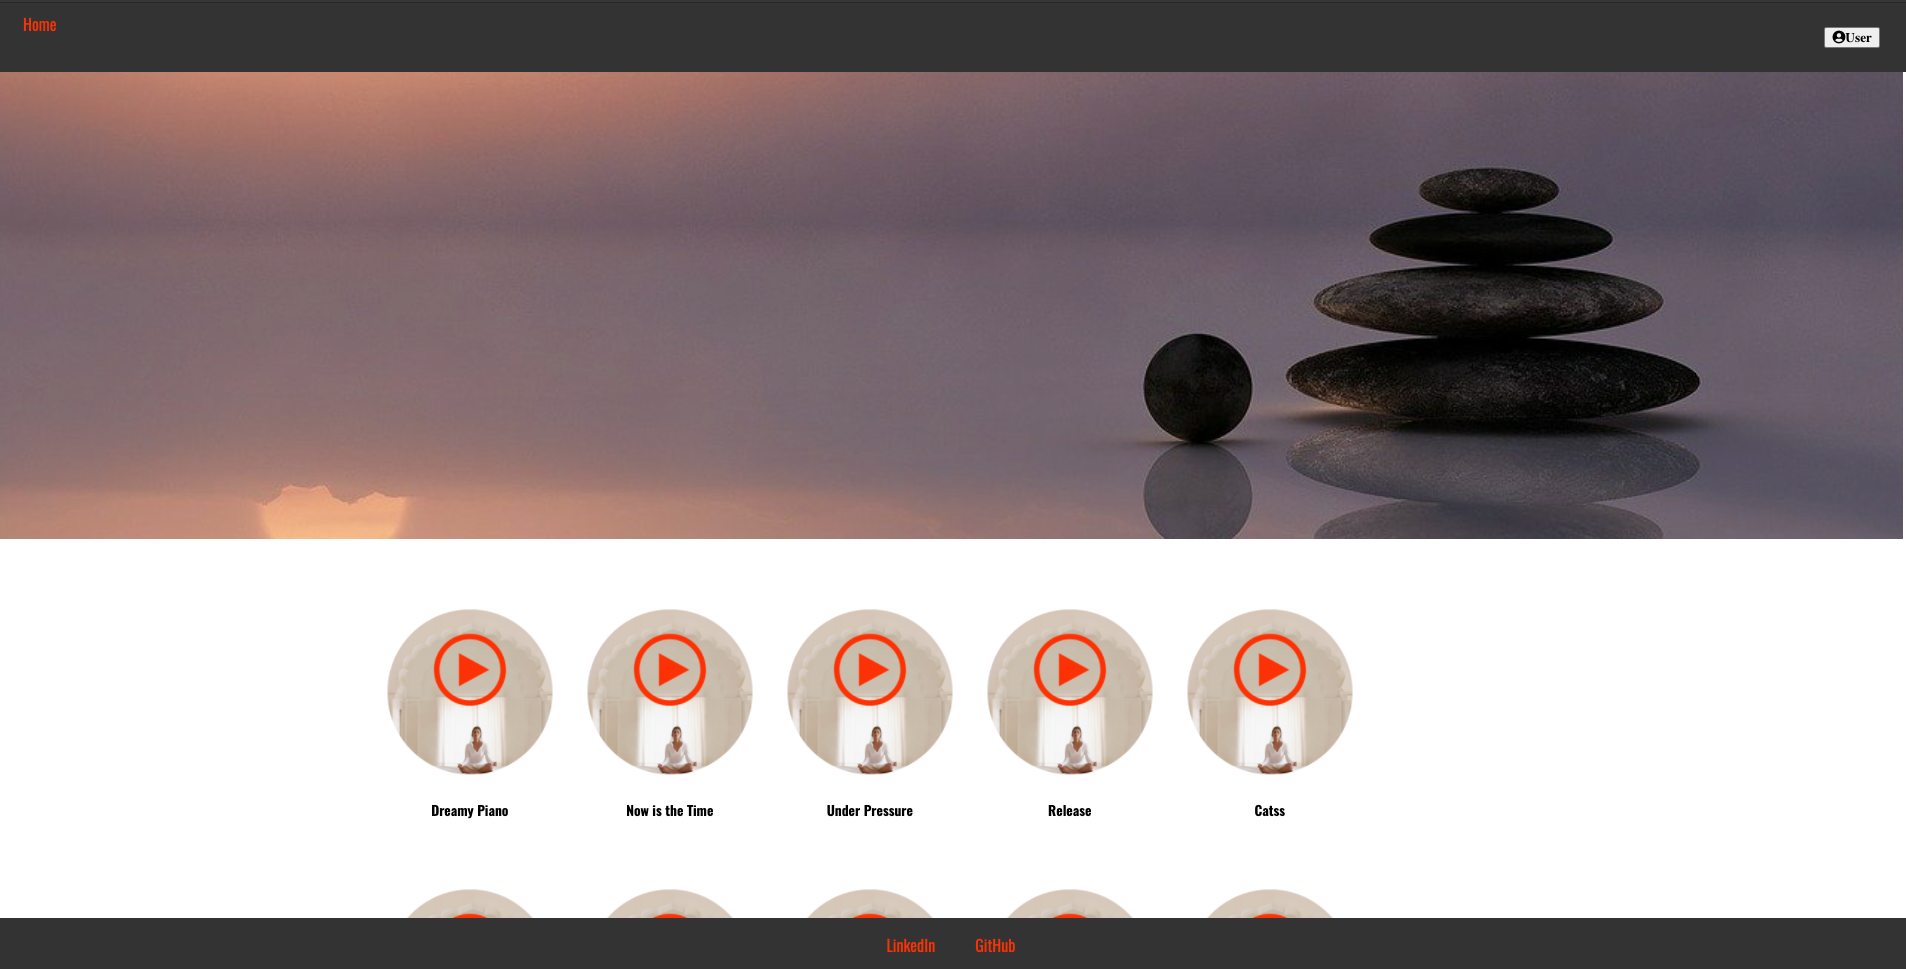
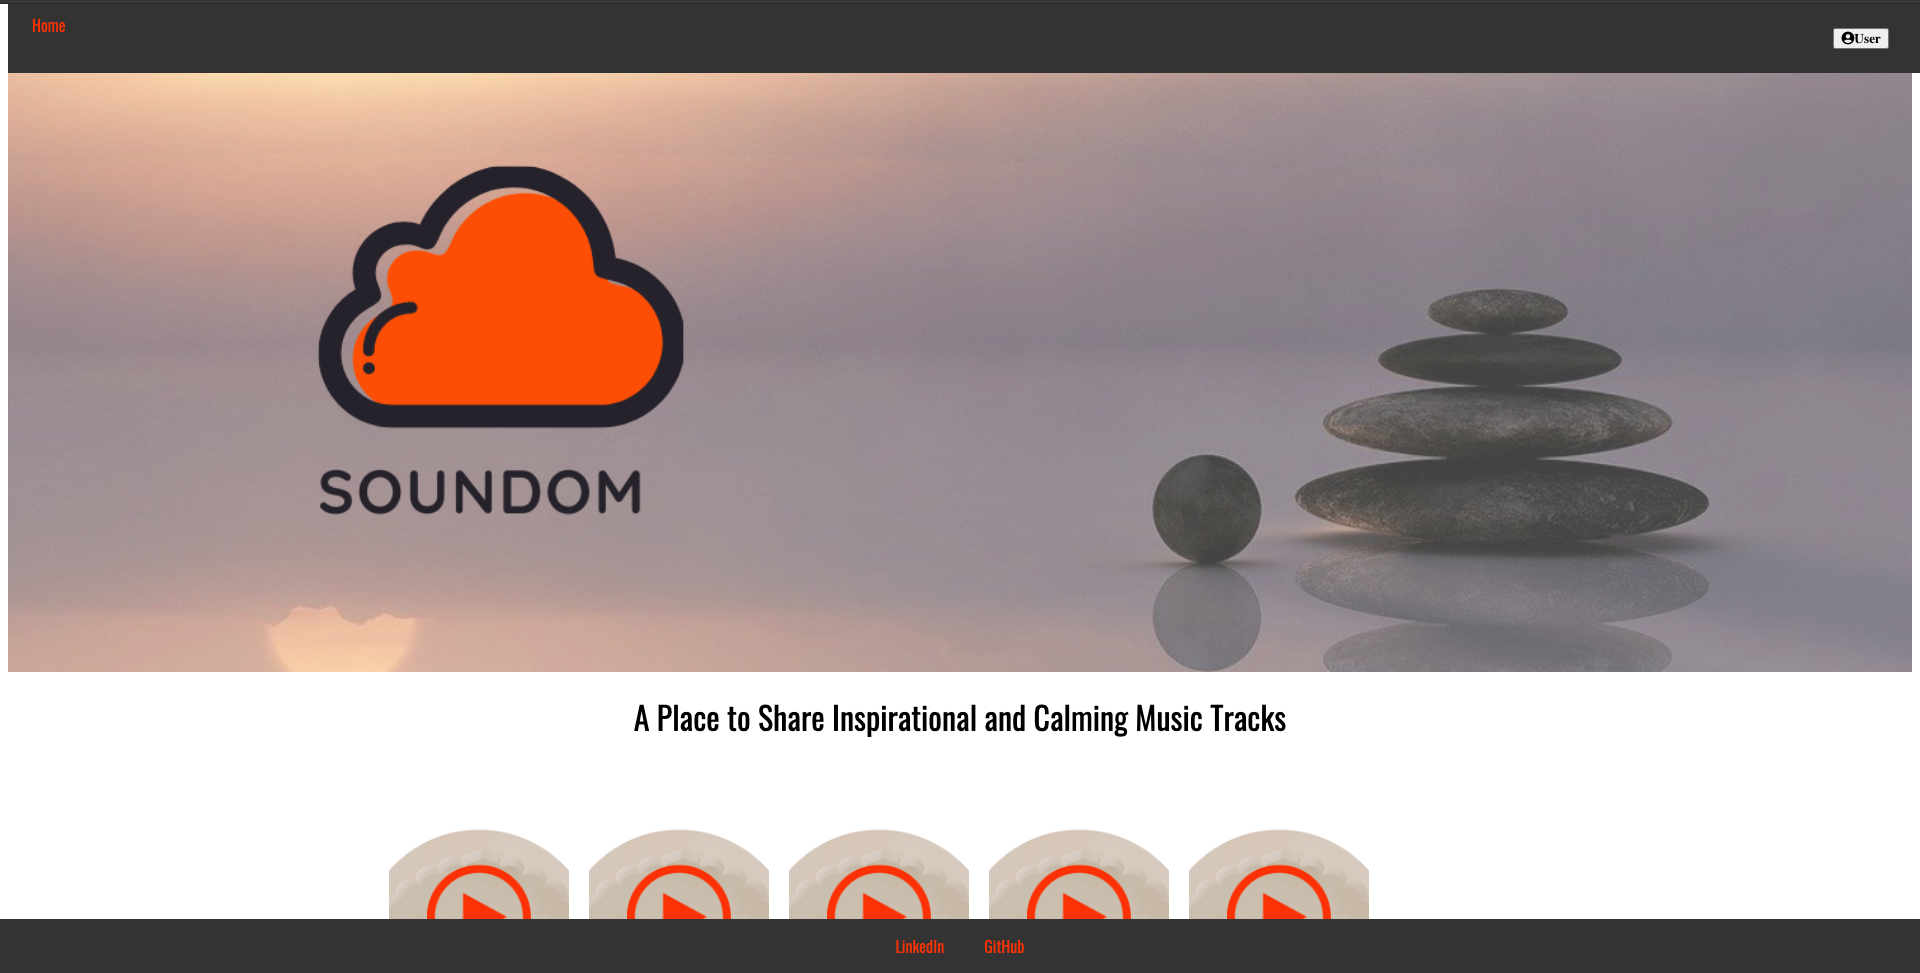
updated project pic

diff --git a/index.html b/index.html
@@ -149,7 +149,7 @@
                         </header>
                         <div class="content">
                             <div class="gallery">
-                                <a href="images/gallery/fulls/03.jpg" class="landscape"><img src="https://res.cloudinary.com/dse6ebwba/image/upload/v1623897952/Screen_Shot_2021-06-16_at_7.45.12_PM_qeuzwf.png" alt="sophora"/></a>
+                                <a href="images/gallery/fulls/03.jpg" class="landscape"><img src="https://res.cloudinary.com/dse6ebwba/image/upload/v1624247436/03_mqmswm.png" alt="sophora"/></a>
 
                             </div>
                         </div>
